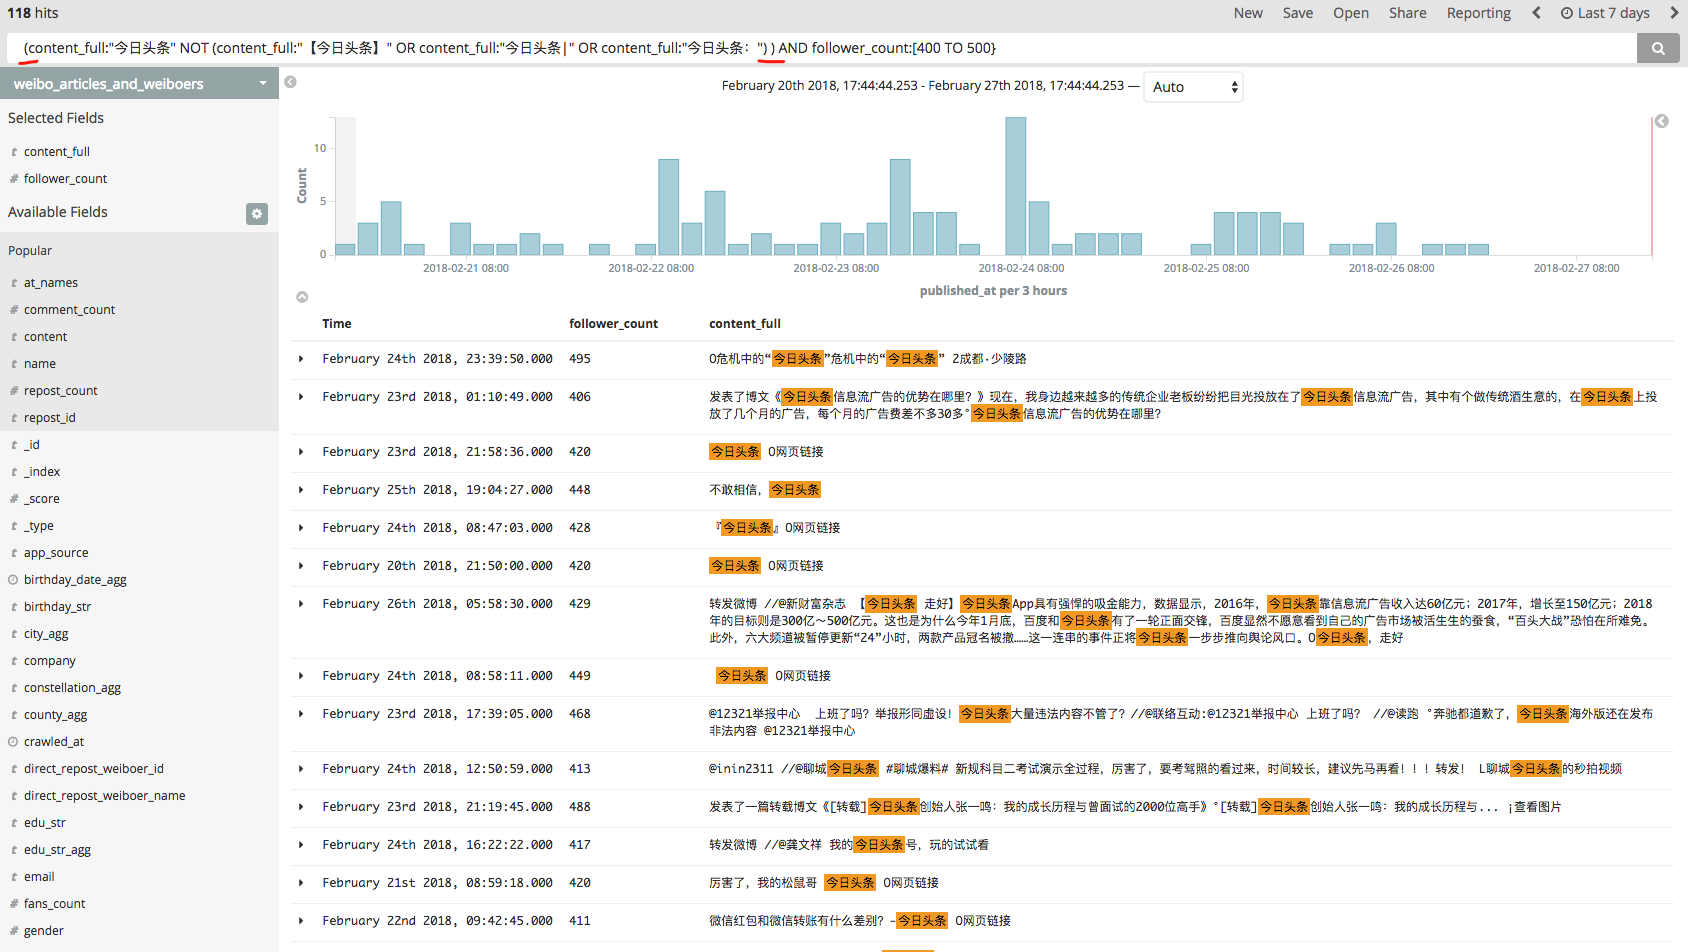
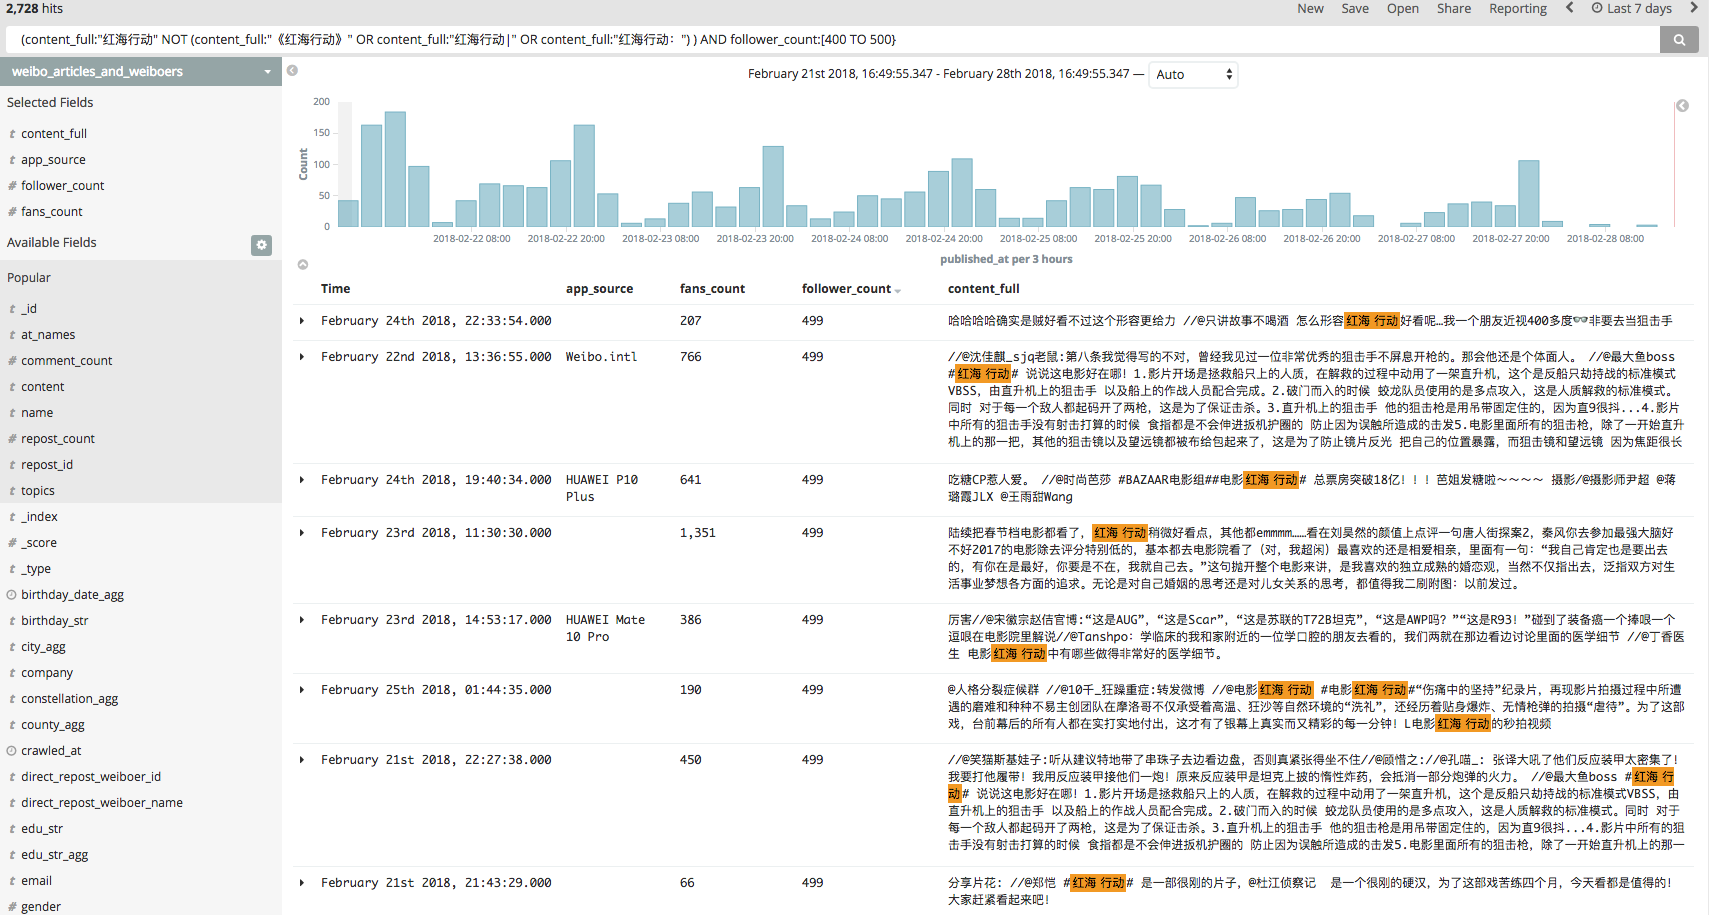
Creates assets/import35.png
Auto commit by GitBook Editor

diff --git a/discover-gong-neng/ru-he-sou-suo-shu-ju.md b/discover-gong-neng/ru-he-sou-suo-shu-ju.md
@@ -1,53 +1,57 @@
 ## 搜索数据
 
-在 Discover 页提交一个搜索，你就可以搜索匹配当前索引模式的索引数据了。你可以直接输入简单的请求字符串，也就是用 [Lucene Query Syntax](https://lucene.apache.org/core/2_9_4/queryparsersyntax.html)，也可以用完整的基于 JSON 的 [Elasticsearch Query DSL](http://www.elasticsearch.org/guide/en/elasticsearch/reference/current/query-dsl.html)。
-
-当你提交搜索的时候，直方图，文档表格，字段列表，都会自动反映成搜索的结果。hits\(匹配的文档\)总数会在直方图的右上角显示。文档表格显示前 500 个匹配文档。默认的，文档倒序排列，最新的文档最先显示。你可以通过点击时间列的头部来反转排序。事实上，所有建了索引的字段，都可以用来排序，稍后会详细说明。
+当你提交搜索的时候，直方图，文档表格，字段列表，都会自动反映成搜索的结果。hits\(匹配的文档\)总数会在直方图的右上角显示。文档表格显示前 500 个匹配文档。默认的，文档倒序排列，最新的文档最先显示。你可以通过点击时间列的头部来反转排序。
 
 要搜索你的数据：
 
 1. 在搜索框内输入请求字符串：
 
-   * 简单的文本搜索，直接输入文本字符串。比如，如果你在搜索网站服务器日志，你可以输入 `今日头条` 来搜索各字段中的 `今日头条` 单词。
-   * 要搜索特定字段中的值，则在值前加上字段名。比如，你可以输入 `content_full:"今日头条"` 来限制搜索结果都是在 `content_full` 字段里有 `今日头条` 内容。
+   * 简单的文本搜索，直接输入文本字符串。比如，如果你在搜索某个电影，你可以直接输入 `红海行动` 来过滤匹配到的文档。
+   * 要搜索特定字段中的值，则在值前加上字段名。比如，你可以输入 `content_full:"红海行动"` 来限制搜索结果都是在 `content_full` 字段里有 `红海行动` 内容。
    * 要搜索一个值的范围，你可以用范围查询语法，`[START_VALUE TO END_VALUE]`。比如，要查找微博粉丝数 400 到 500 之间的，你可以输入 `follower_count:[400 TO 500]`。
-   * 要指定更复杂的搜索标准，你可以用布尔操作符 `AND`, `OR`, 和 `NOT`。比如，微博粉丝数 400 到 500 之间的，并且过滤有特殊符号的`今日头条`数据，你可以输入 `(content_full:"今日头条" NOT (content_full:"【今日头条】" OR content_full:"今日头条|" OR content_full:"今日头条：") ) AND follower_count:[400 TO 500}`
+   * 要指定更复杂的搜索标准，你可以用布尔操作符 `AND`, `OR`, 和 `NOT`。比如，微博粉丝数 400 到 500 之间的，并且过滤有特殊符号的`红海行动`数据，你可以输入 `(content_full:"红海行动" NOT (content_full:"《红海行动》" OR content_full:"红海行动|" OR content_full:"红海行动：") ) AND follower_count:[400 TO 500}`
 
    ![](/assets/import5.png)
 
-> 这些例子都用了 Lucene query syntax。你也可以提交 Elasticsearch Query DSL 式的请求。更多示例，参见之前 [Elasticsearch 章节](../../elasticsearch/api/search.md)。
+点击回车键，或者点击 `Search` 按钮提交你的搜索请求。
 
-1. 点击回车键，或者点击 `Search` 按钮提交你的搜索请求。
+**示例一：**
 
-查询示例：
+`content_full` 查找`红海行动`，查询语句 `content_full: "红海行动"`
 
-`content_full` 查找`今日头条`
+![](/assets/import31.png)
 
-```
-content_full: "今日头条"  3,757 hits
-```
+**示例二：**
 
-`content_full` 里查找含`今日头条`或者`北方吃元宵`的文档
+`content_full` 里查找含`红海行动`或者`捉妖记2`的文档，查询语句 `content_full: ("红海行动" OR "捉妖记2")`
 
-```
-content_full: ("今日头条" OR "北方吃元宵") 3,791 hits
-```
+![](/assets/import32.png)
 
-`content_full` 里查找含`今日头条`并且含`北方吃元宵`的文档
+**示例三：**
 
-```
-content_full: ("今日头条" AND "北方吃元宵") 1 hits
+`content_full` 里查找含`红海行动`并且含`捉妖记2`的文档，查询语句 `content_full: ("红海行动" AND "捉妖记2")`
 
-或者
+![](/assets/import33.png)
 
-{"query_string" : { "fields" : ["content_full"],"query" : "\"今日头条\" AND \"北方吃元宵\"" }} 1 hit
-```
-
-`content_full` 里查找含`今日头条`，不含`【今日头条】、今日头条|、今日头条：`，并且微博粉丝数 400 到 500 之间的文档
+另一种查询语句
 
 ```
-(content_full:"今日头条" NOT (content_full:"【今日头条】" OR content_full:"今日头条|" OR content_full:"今日头条：") ) AND follower_count:[400 TO 500}  119 hits
+{"query_string" : { "fields" : ["content_full"],"query" : "\"红海行动\" AND \"捉妖记2\"" }}
 ```
+
+![](/assets/import34.png)
+
+**示例四：**
+
+`content_full` 里查找含`红海行动`，`不含《红海行动》、红海行动|、红海行动：`，并且微博粉丝数在 `400` 到 `500` 之间的文档，查询语句：
+
+```
+(content_full:"红海行动" NOT (content_full:"《红海行动》" OR content_full:"红海行动|" OR content_full:"红海行动：") ) AND follower_count:[400 TO 500}
+```
+
+![](/assets/import35.png)
+
+**示例五：**
 
 ```
 follower_count:["400" TO "500"}  大于等于400小于500
